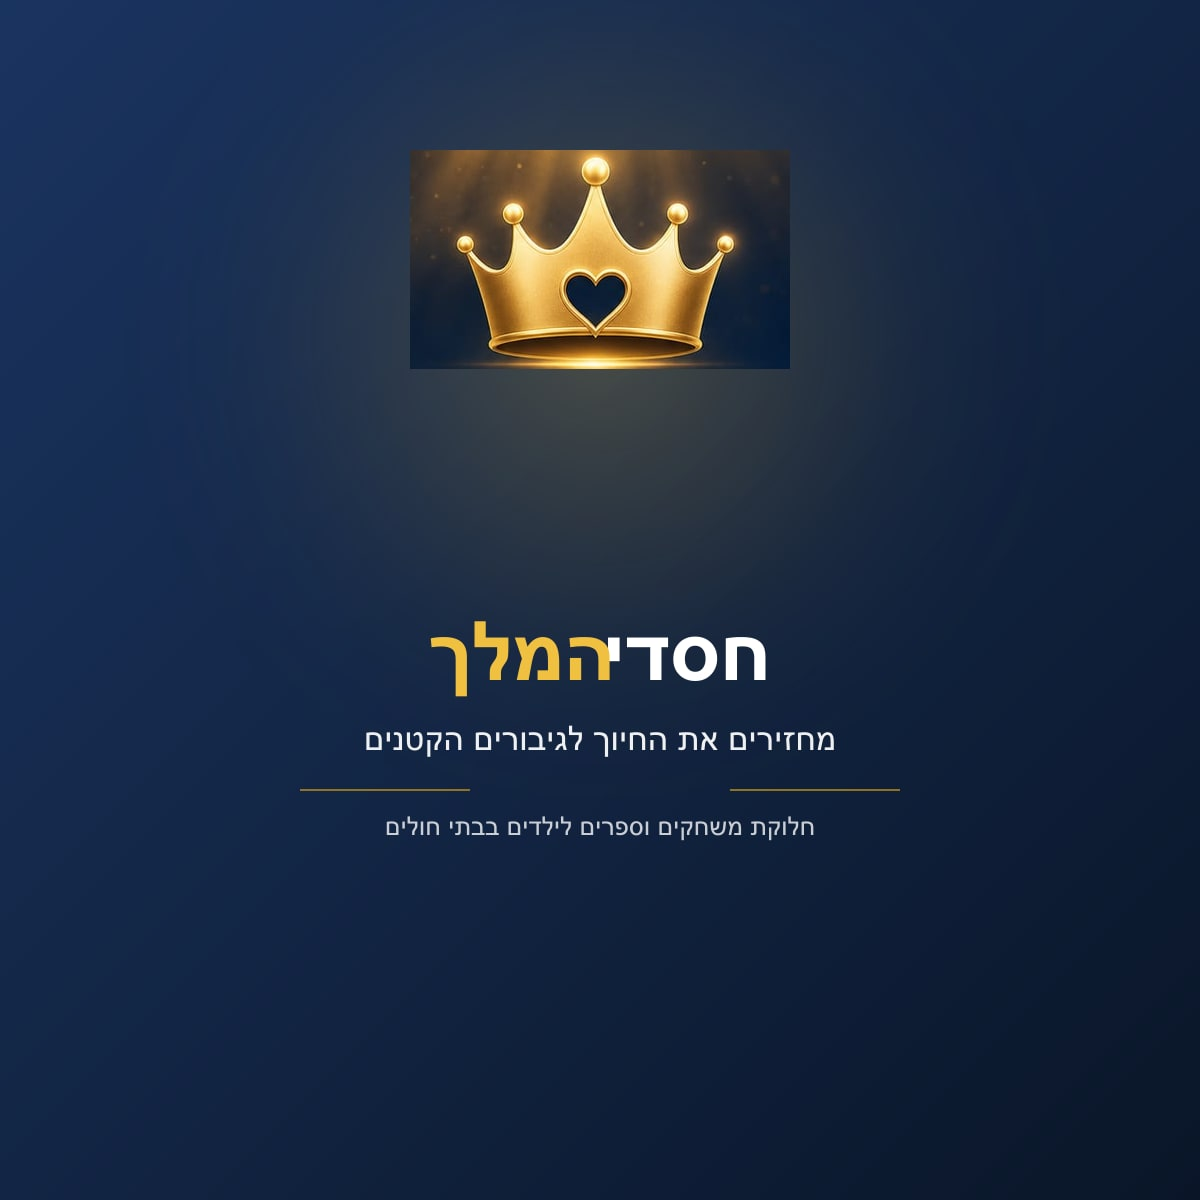
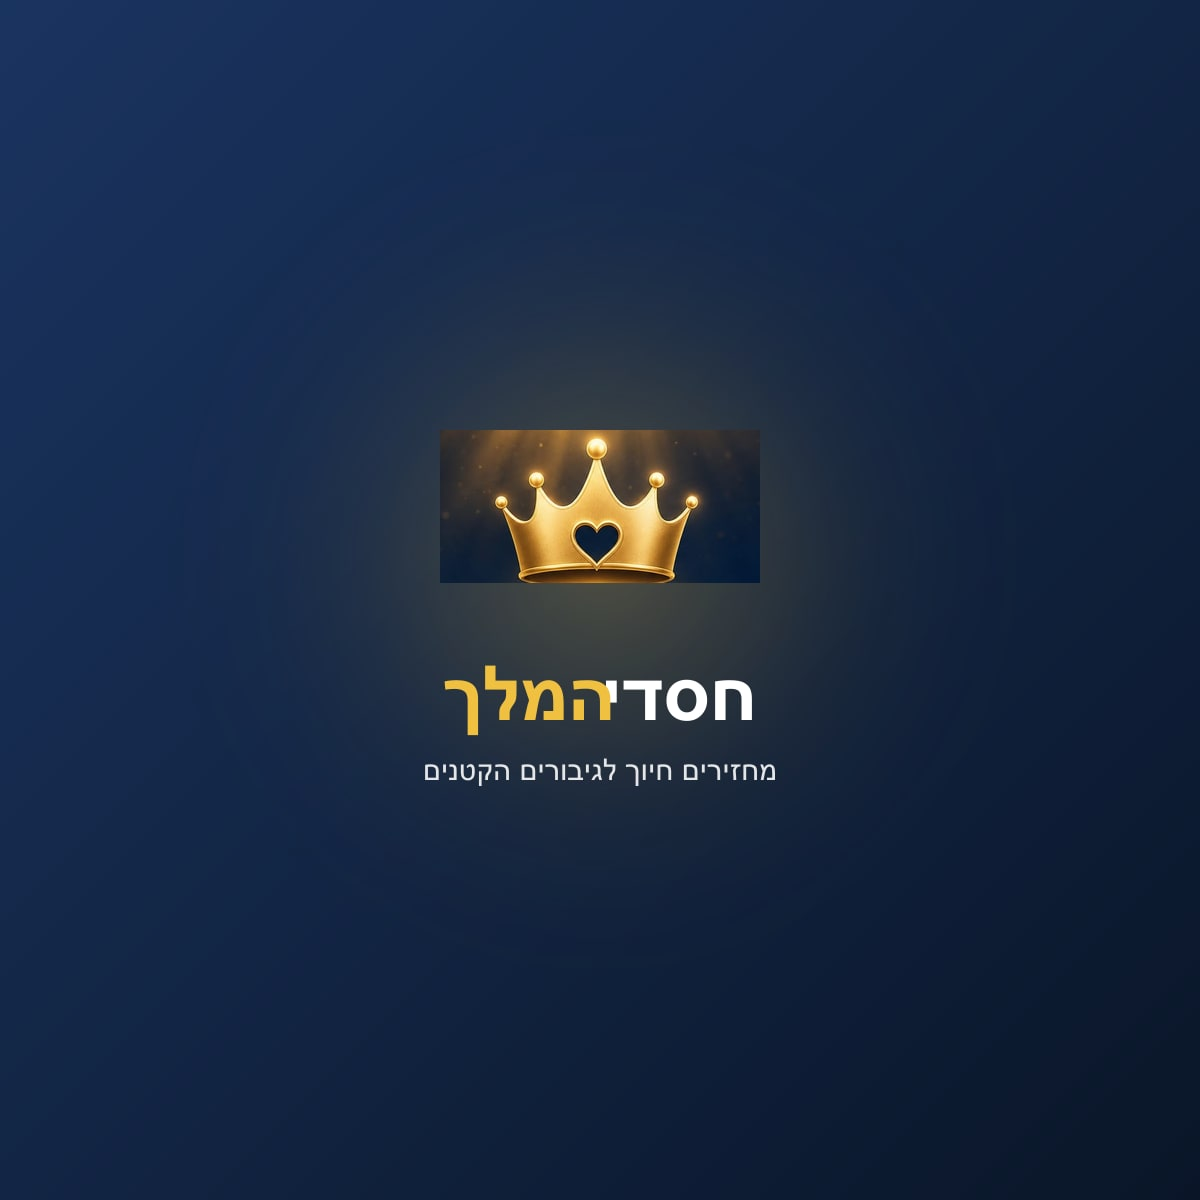
Compact OG image layout and shorter share preview text

Changed region(s): [[0.2775, 0.3392, 0.74, 0.7092], [0.3392, 0.1233, 0.6783, 0.3083]]

diff --git a/frontend/index.html b/frontend/index.html
@@ -32,14 +32,14 @@
 
     <!-- Open Graph (Facebook / WhatsApp) -->
     <meta property="og:type" content="website" />
-    <meta property="og:title" content="חסדי המלך — חלוקת מתנות לילדים בבתי חולים" />
-    <meta property="og:description" content="עמותת חסדי המלך עוסקת בחלוקת מתנות לילדים, צעצועים ומשחקים לילדים מאושפזים בבתי חולים ברחבי הארץ. אנו מחלקים בבתי חולים כדי להחזיר את החיוך לגיבורים הקטנים." />
+    <meta property="og:title" content="חסדי המלך" />
+    <meta property="og:description" content="משחקים וספרים לילדים מאושפזים בבתי חולים ברחבי הארץ." />
     <meta property="og:site_name" content="חסדי המלך" />
     <meta property="og:locale" content="he_IL" />
     <meta property="og:url" content="https://chasde-hamelech.org.il/" />
-    <link rel="image_src" href="https://chasde-hamelech.org.il/og-share.jpg?v=3" />
-    <meta property="og:image" content="https://chasde-hamelech.org.il/og-share.jpg?v=3" />
-    <meta property="og:image:secure_url" content="https://chasde-hamelech.org.il/og-share.jpg?v=3" />
+    <link rel="image_src" href="https://chasde-hamelech.org.il/og-share.jpg?v=4" />
+    <meta property="og:image" content="https://chasde-hamelech.org.il/og-share.jpg?v=4" />
+    <meta property="og:image:secure_url" content="https://chasde-hamelech.org.il/og-share.jpg?v=4" />
     <meta property="og:image:type" content="image/jpeg" />
     <meta property="og:image:width" content="1200" />
     <meta property="og:image:height" content="1200" />
@@ -47,9 +47,9 @@
 
     <!-- Twitter Card -->
     <meta name="twitter:card" content="summary_large_image" />
-    <meta name="twitter:title" content="חסדי המלך — חלוקת מתנות לילדים בבתי חולים" />
-    <meta name="twitter:description" content="עמותת חסדי המלך עוסקת בחלוקת מתנות לילדים, צעצועים ומשחקים לילדים מאושפזים בבתי חולים ברחבי הארץ." />
-    <meta name="twitter:image" content="https://chasde-hamelech.org.il/og-share.jpg?v=3" />
+    <meta name="twitter:title" content="חסדי המלך" />
+    <meta name="twitter:description" content="משחקים וספרים לילדים מאושפזים בבתי חולים ברחבי הארץ." />
+    <meta name="twitter:image" content="https://chasde-hamelech.org.il/og-share.jpg?v=4" />
 
     <!-- Preconnect for fonts -->
     <link rel="preconnect" href="https://fonts.googleapis.com" />

diff --git a/frontend/src/components/PageMeta.jsx b/frontend/src/components/PageMeta.jsx
@@ -3,7 +3,7 @@ import { useEffect } from 'react';
 const SITE = 'חסדי המלך';
 const BASE_DESC = 'מחלקים משחקים, ספרים ואהבה לילדים מאושפזים בבתי חולים בכל רחבי הארץ.';
 const BASE_URL = 'https://chasde-hamelech.org.il';
-const OG_IMAGE = `${BASE_URL}/og-share.jpg?v=3`;
+const OG_IMAGE = `${BASE_URL}/og-share.jpg?v=4`;
 const OG_IMAGE_WIDTH = '1200';
 const OG_IMAGE_HEIGHT = '1200';
 